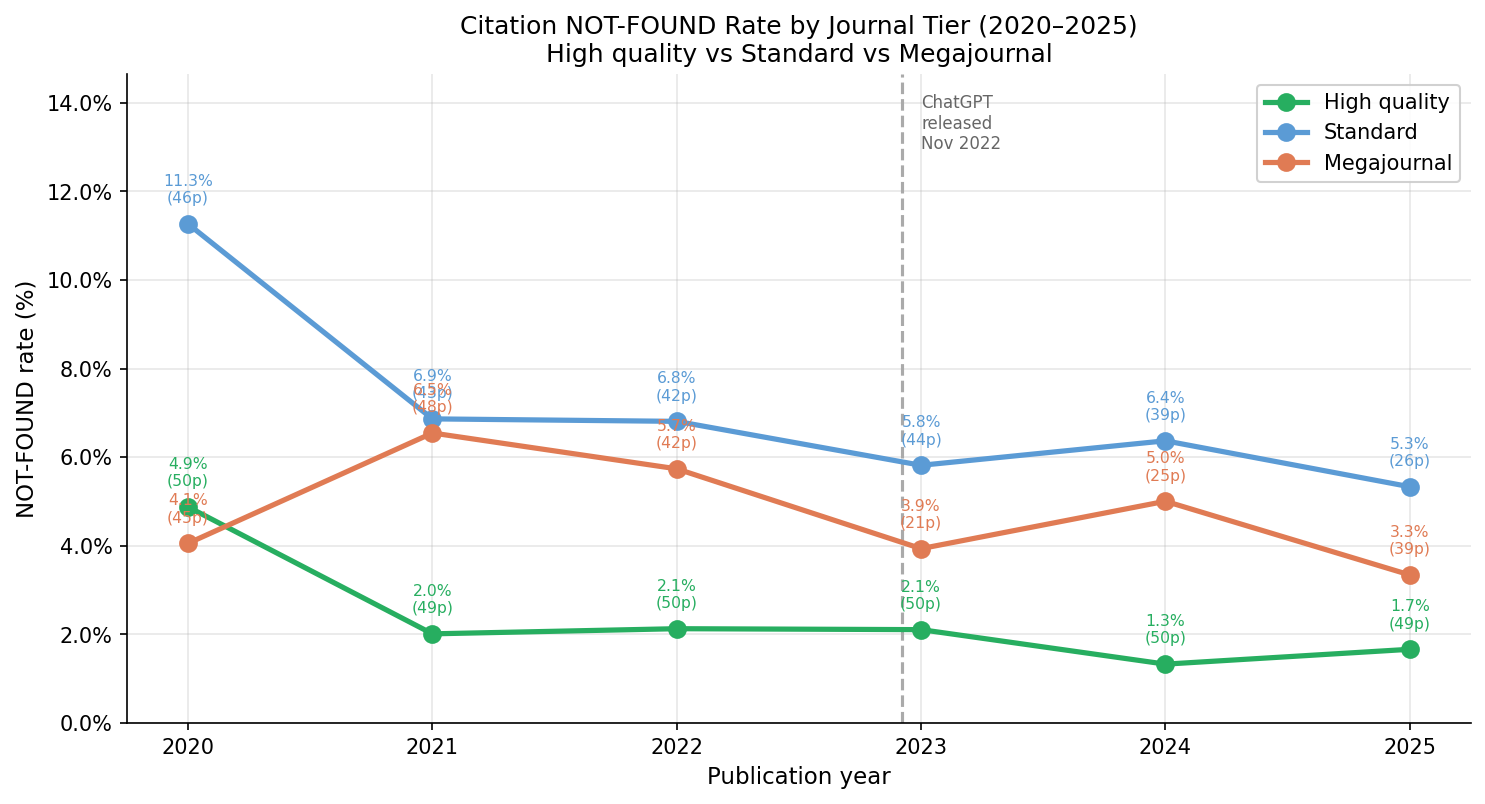
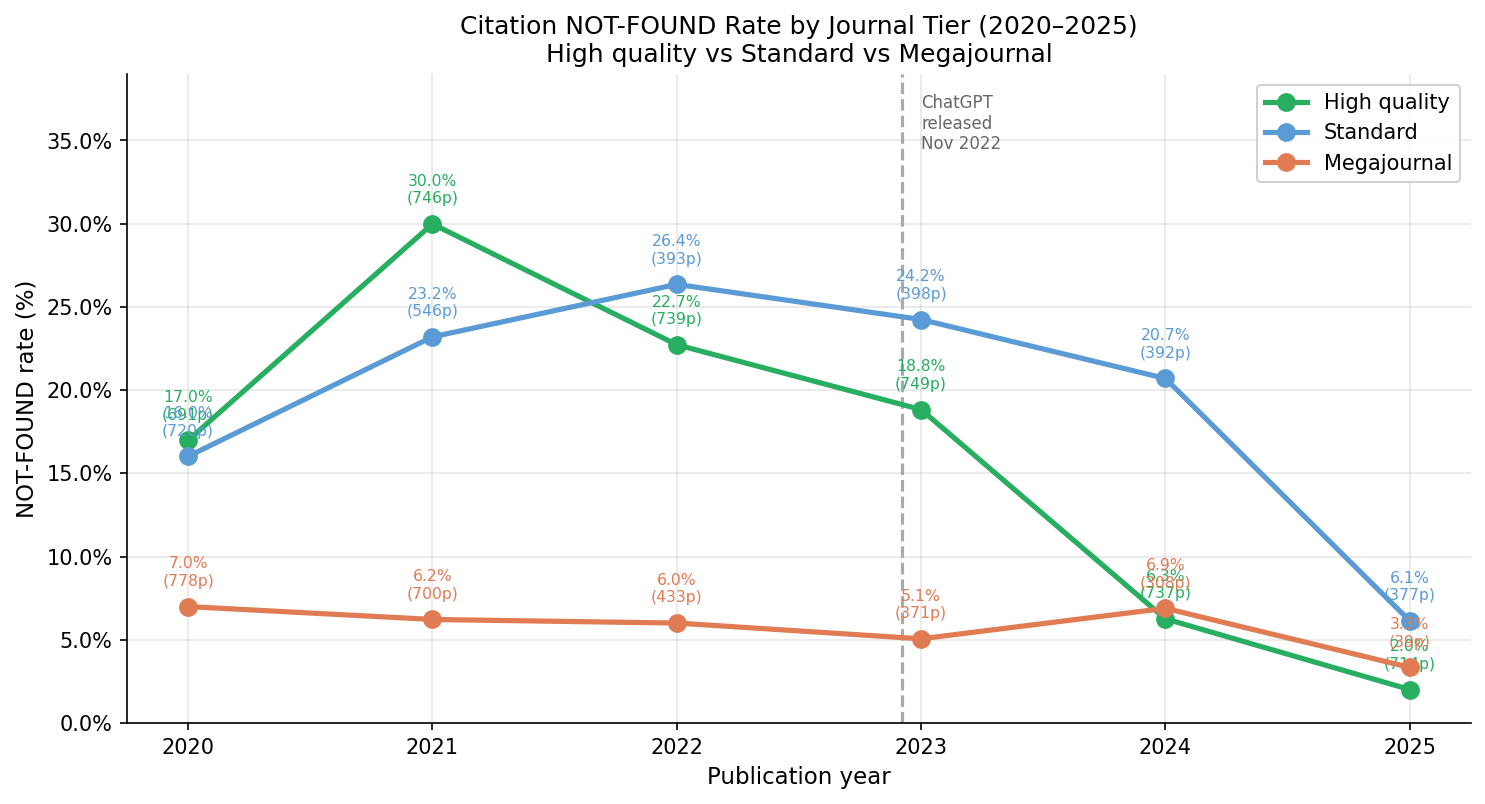
solr_lookup: fix pre-2000 citation blindspot; sample_papers: add --max-pages
solr_lookup.py: the openalexWorks /select handler has a default
fq=publication_year:[2000 TO *] that silently excluded all pre-2000
citations from every Solr lookup. Added explicit fq=[* TO *] override
to by_doi(), by_title() (no-year branch), and by_title_batch(). Verified
against 25 citations from a 1948-1999 FRET corpus — all now found in
Solr directly instead of falling through to the Crossref fallback.

sample_papers.py: added --max-pages CLI argument (default 3, was
hardcoded) so callers can fetch larger candidate pools from OpenAlex
when sampling more papers per year (e.g. --max-pages 15 for n=600).

figures: regenerated fig6-fig10 from combined v4+v5+v6 dataset
(46,036 unique papers, 1,056-1,133/yr per journal).

diff --git a/scripts/sample_papers.py b/scripts/sample_papers.py
@@ -7,11 +7,15 @@ that have a usable PDF URL, and writes a JSONL manifest.
 Usage:
     python3 sample_papers.py                          # all journals, 2020–2025, n=10
     python3 sample_papers.py --years 2023 2024 2025
-    python3 sample_papers.py --n 20
+    python3 sample_papers.py --n 112
+    python3 sample_papers.py --n 112 --exclude-jsonl /path/to/results_v3.jsonl
     python3 sample_papers.py --out manifest.jsonl
 
 Output JSONL fields per line:
-    journal_name, journal_id, field, year, doi, title, oa_url, cited_by_count
+    journal_name, journal_id, field, tier, year, doi, title, oa_url, cited_by_count
+
+--exclude-jsonl: path to a JSONL results file; any DOI already present in that
+    file will be excluded from output (so you only get NEW papers).
 """
 
 from __future__ import annotations
@@ -37,6 +41,10 @@ JOURNALS = [
 
 YEARS = list(range(2020, 2026))   # 2020–2025 inclusive
 
+# How many OpenAlex pages to fetch to build the candidate pool.
+# Each page returns up to 200 results, so 3 pages = up to 600 candidates.
+MAX_PAGES = 3
+
 
 def _oa_url(work: dict) -> str | None:
     """Extract the best OA PDF URL from an OpenAlex work record."""
@@ -53,72 +61,117 @@ def _oa_url(work: dict) -> str | None:
         u = loc.get("pdf_url") or ""
         if u and _is_pdf_url(u):
             return u
-    # Fall back to any oa_url (may be landing page, not PDF — we'll try it)
+    # Fall back to any oa_url (may be landing page — we'll try it)
     return url or None
 
 
 def fetch_sample(journal: dict, year: int, n: int,
-                 seed: int | None = None) -> list[dict]:
+                 seed: int | None = None,
+                 exclude_dois: set[str] | None = None,
+                 max_pages: int = MAX_PAGES) -> list[dict]:
     """
     Return up to `n` sampled papers from `journal` in `year`.
-    Fetches a pool of candidates from OpenAlex and picks `n` at random (seeded).
+
+    Fetches up to MAX_PAGES pages from OpenAlex (up to 600 candidates),
+    filters for valid OA PDF URLs and non-excluded DOIs, then picks n at random.
+
+    Parameters
+    ----------
+    exclude_dois : set of DOI strings to skip (already verified papers)
     """
-    pool_size = max(n * 6, 60)   # fetch more than needed so we have selection room
+    if exclude_dois is None:
+        exclude_dois = set()
 
-    params = {
-        "filter":   f"primary_location.source.id:{journal['id']},publication_year:{year},open_access.is_oa:true",
-        "select":   "id,doi,title,publication_year,cited_by_count,open_access,locations",
-        "per_page": str(min(pool_size, 200)),
-        "sort":     "cited_by_count:desc",
-        "mailto":   EMAIL,
-    }
+    all_candidates: list[dict] = []
 
-    try:
-        r = requests.get("https://api.openalex.org/works", params=params, timeout=30)
-        r.raise_for_status()
-        results = r.json().get("results", [])
-    except Exception as e:
-        print(f"    ⚠  OpenAlex request failed: {e}", file=sys.stderr)
-        return []
+    for page in range(1, max_pages + 1):
+        params = {
+            "filter":   (f"primary_location.source.id:{journal['id']},"
+                         f"publication_year:{year},"
+                         f"open_access.is_oa:true"),
+            "select":   "id,doi,title,publication_year,cited_by_count,open_access,locations",
+            "per_page": "200",
+            "page":     str(page),
+            "sort":     "cited_by_count:desc",
+            "mailto":   EMAIL,
+        }
 
-    # Filter: must have DOI and a usable OA URL
-    candidates = []
-    for w in results:
-        doi = (w.get("doi") or "").replace("https://doi.org/", "").strip()
-        if not doi:
-            continue
-        url = _oa_url(w)
-        if not url:
-            continue
-        candidates.append({
-            "journal_name":   journal["name"],
-            "journal_id":     journal["id"],
-            "field":          journal["field"],
-            "tier":           journal.get("tier", "standard"),
-            "year":           year,
-            "doi":            doi,
-            "title":          (w.get("title") or "").strip(),
-            "oa_url":         url,
-            "cited_by_count": w.get("cited_by_count", 0),
-        })
+        try:
+            r = requests.get("https://api.openalex.org/works", params=params, timeout=30)
+            r.raise_for_status()
+            data = r.json()
+            results = data.get("results", [])
+        except Exception as e:
+            print(f"    ⚠  OpenAlex request failed (page {page}): {e}", file=sys.stderr)
+            break
 
-    if not candidates:
+        if not results:
+            break   # no more pages
+
+        for w in results:
+            doi = (w.get("doi") or "").replace("https://doi.org/", "").strip().lower()
+            if not doi:
+                continue
+            if doi in exclude_dois:
+                continue
+            url = _oa_url(w)
+            if not url:
+                continue
+            all_candidates.append({
+                "journal_name":   journal["name"],
+                "journal_id":     journal["id"],
+                "field":          journal["field"],
+                "tier":           journal.get("tier", "standard"),
+                "year":           year,
+                "doi":            doi,
+                "title":          (w.get("title") or "").strip(),
+                "oa_url":         url,
+                "cited_by_count": w.get("cited_by_count", 0),
+            })
+
+        # Stop early if we already have plenty of candidates
+        if len(all_candidates) >= n * 4:
+            break
+
+        time.sleep(0.2)  # be polite to OpenAlex between pages
+
+    if not all_candidates:
         return []
 
     # Reproducible random sample (seed = year * 1000 + journal index)
     rng = random.Random(seed if seed is not None else year * 1000)
-    rng.shuffle(candidates)
-    return candidates[:n]
+    rng.shuffle(all_candidates)
+    return all_candidates[:n]
 
 
 def main():
     ap = argparse.ArgumentParser(description="Sample OA papers from OpenAlex by journal and year.")
     ap.add_argument("--years", nargs="+", type=int, default=YEARS)
     ap.add_argument("--n",    type=int, default=10, help="papers per journal per year")
+    ap.add_argument("--max-pages", type=int, default=MAX_PAGES, help="OpenAlex pages to fetch per (journal, year) pair (200 results/page)")
     ap.add_argument("--out",  default="", help="output JSONL path (default: print to stdout)")
     ap.add_argument("--journals", nargs="+", default=[],
                     help="subset of journal names to include (default: all)")
+    ap.add_argument("--exclude-jsonl", default="",
+                    help="path to existing results JSONL; DOIs in this file are excluded from output")
     args = ap.parse_args()
+
+    # Load DOIs to exclude (already verified papers)
+    exclude_dois: set[str] = set()
+    if args.exclude_jsonl and pathlib.Path(args.exclude_jsonl).exists():
+        with open(args.exclude_jsonl) as f:
+            for line in f:
+                line = line.strip()
+                if not line:
+                    continue
+                try:
+                    row = json.loads(line)
+                    doi = (row.get("doi") or "").lower().strip()
+                    if doi:
+                        exclude_dois.add(doi)
+                except json.JSONDecodeError:
+                    pass
+        print(f"Excluding {len(exclude_dois):,} already-verified DOIs", file=sys.stderr)
 
     journals = JOURNALS
     if args.journals:
@@ -127,20 +180,22 @@ def main():
     lines = []
     total_expected = len(journals) * len(args.years) * args.n
 
-    print(f"Sampling {args.n} papers × {len(journals)} journals × {len(args.years)} years "
+    print(f"Sampling up to {args.n} papers × {len(journals)} journals × {len(args.years)} years "
           f"= up to {total_expected} papers", file=sys.stderr)
-    print(f"Years: {args.years}", file=sys.stderr)
+    print(f"Years: {sorted(args.years)}", file=sys.stderr)
+    if exclude_dois:
+        print(f"Excluding: {len(exclude_dois):,} existing DOIs", file=sys.stderr)
     print(file=sys.stderr)
 
     for j in journals:
         for year in sorted(args.years):
             print(f"  {j['name']} {year}… ", end="", flush=True, file=sys.stderr)
-            papers = fetch_sample(j, year, args.n)
-            print(f"{len(papers)} papers", file=sys.stderr)
+            papers = fetch_sample(j, year, args.n, exclude_dois=exclude_dois, max_pages=args.max_pages)
+            print(f"{len(papers)} new papers", file=sys.stderr)
             lines.extend(papers)
             time.sleep(0.3)   # be polite to OpenAlex
 
-    print(f"\nTotal sampled: {len(lines)}", file=sys.stderr)
+    print(f"\nTotal new papers sampled: {len(lines)}", file=sys.stderr)
 
     out_text = "\n".join(json.dumps(p) for p in lines) + "\n"
     if args.out:

diff --git a/scripts/solr_lookup.py b/scripts/solr_lookup.py
@@ -121,6 +121,7 @@ class SolrLookup:
         params = {
             "q": f'doi:"{doi}"',
             "defType": "lucene",
+            "fq": "publication_year:[* TO *]",   # override handler default (2000+)
             "fl": "id,title,doi,publication_year,cited_by_count,type",
             "rows": "1",
             "wt": "json",
@@ -150,7 +151,7 @@ class SolrLookup:
         if year:
             params["fq"] = f"publication_year:[{year - 1} TO {year + 1}]"
         else:
-            params["fq"] = ""      # include all years
+            params["fq"] = "publication_year:[* TO *]"   # override handler default (2000+)
 
         try:
             data = _solr_get(params)
@@ -251,6 +252,7 @@ class SolrLookup:
             params = {
                 "q":       q,
                 "defType": "lucene",
+                "fq":      "publication_year:[* TO *]",   # override handler default (2000+)
                 "fl":      "id,title,doi,publication_year,primary_location",
                 "rows":    str(rows),
                 "wt":      "json",
